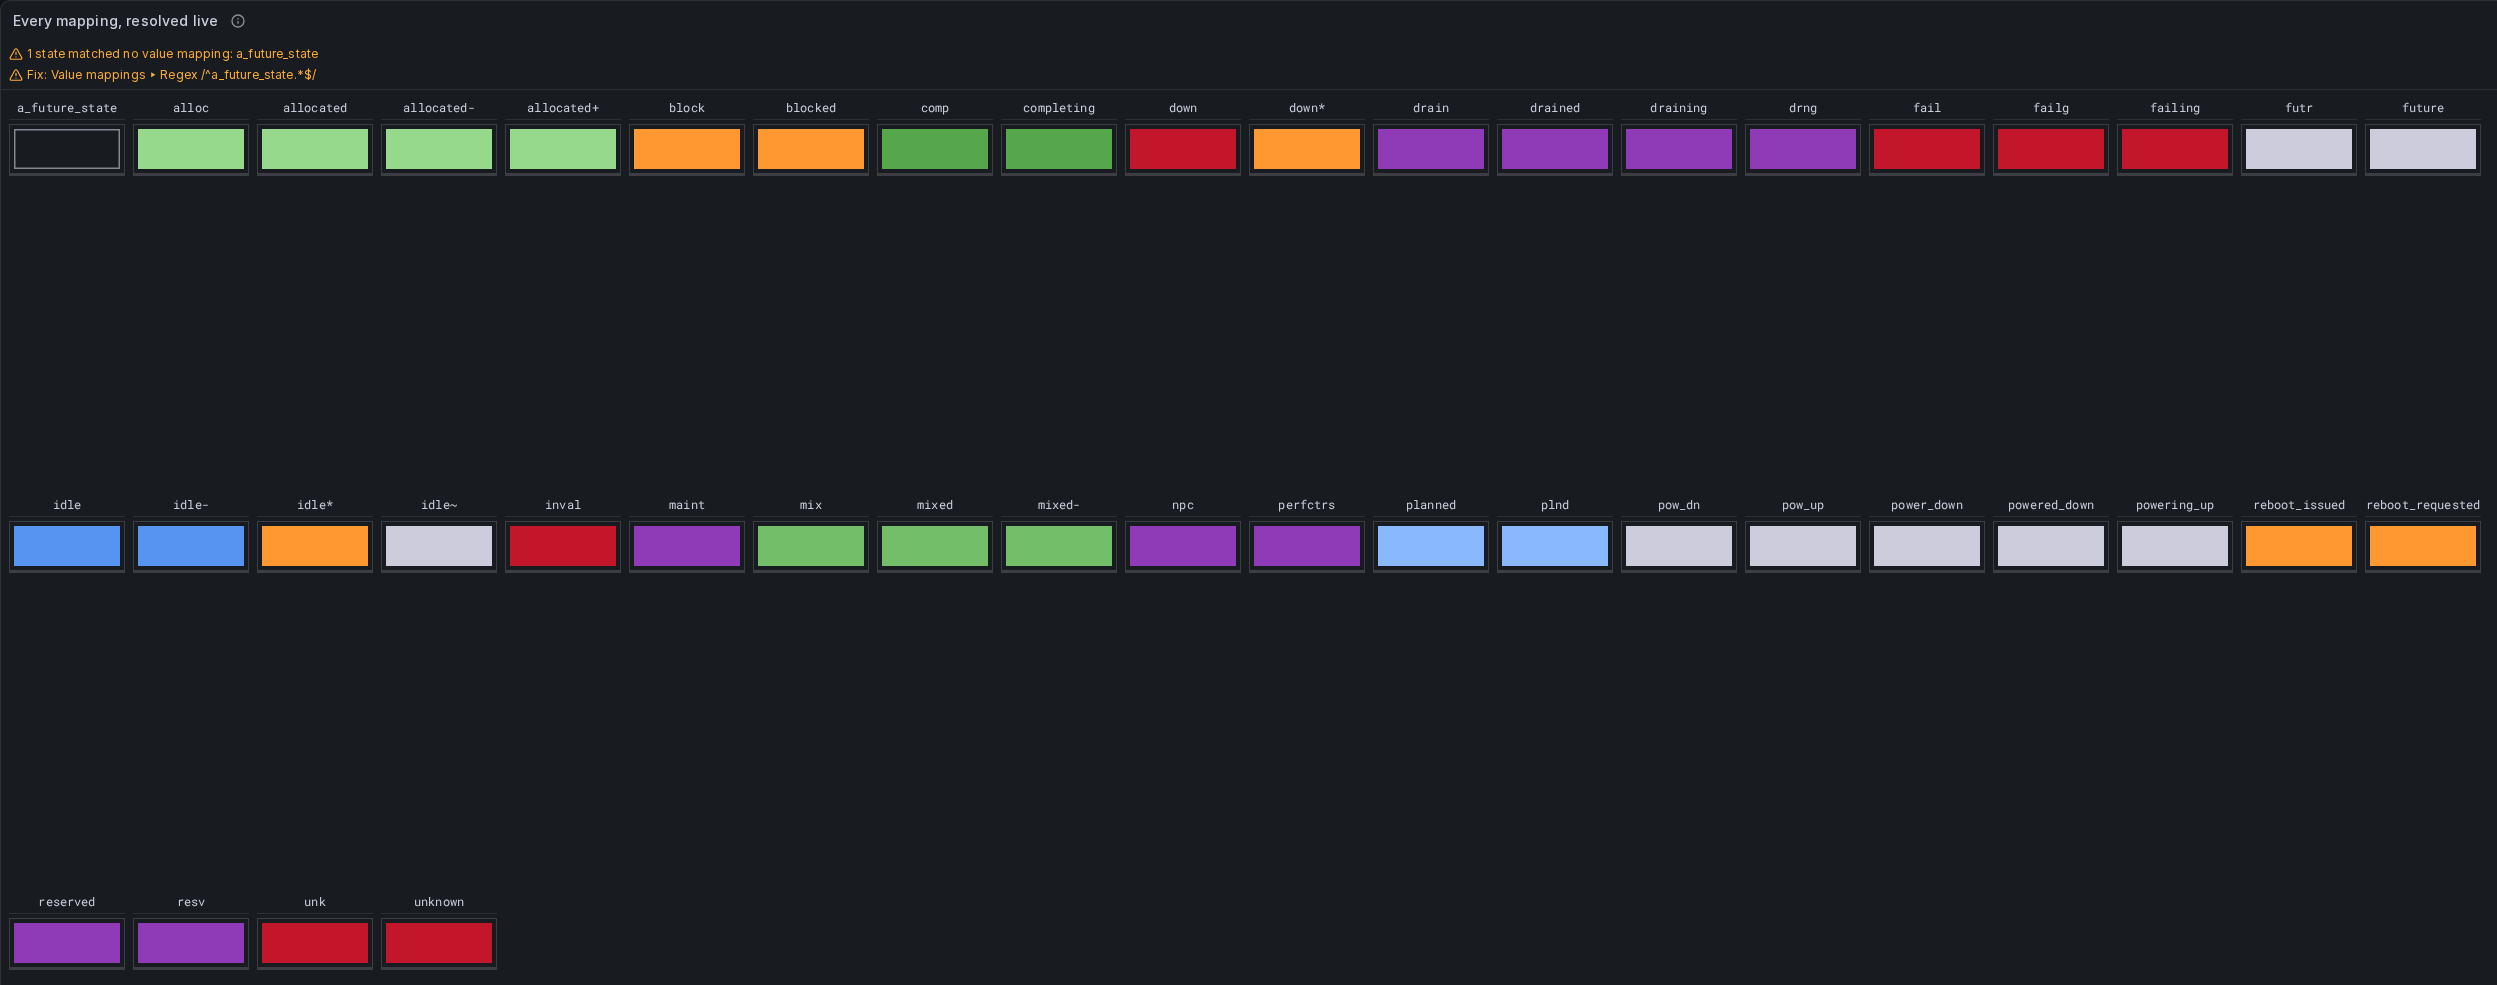
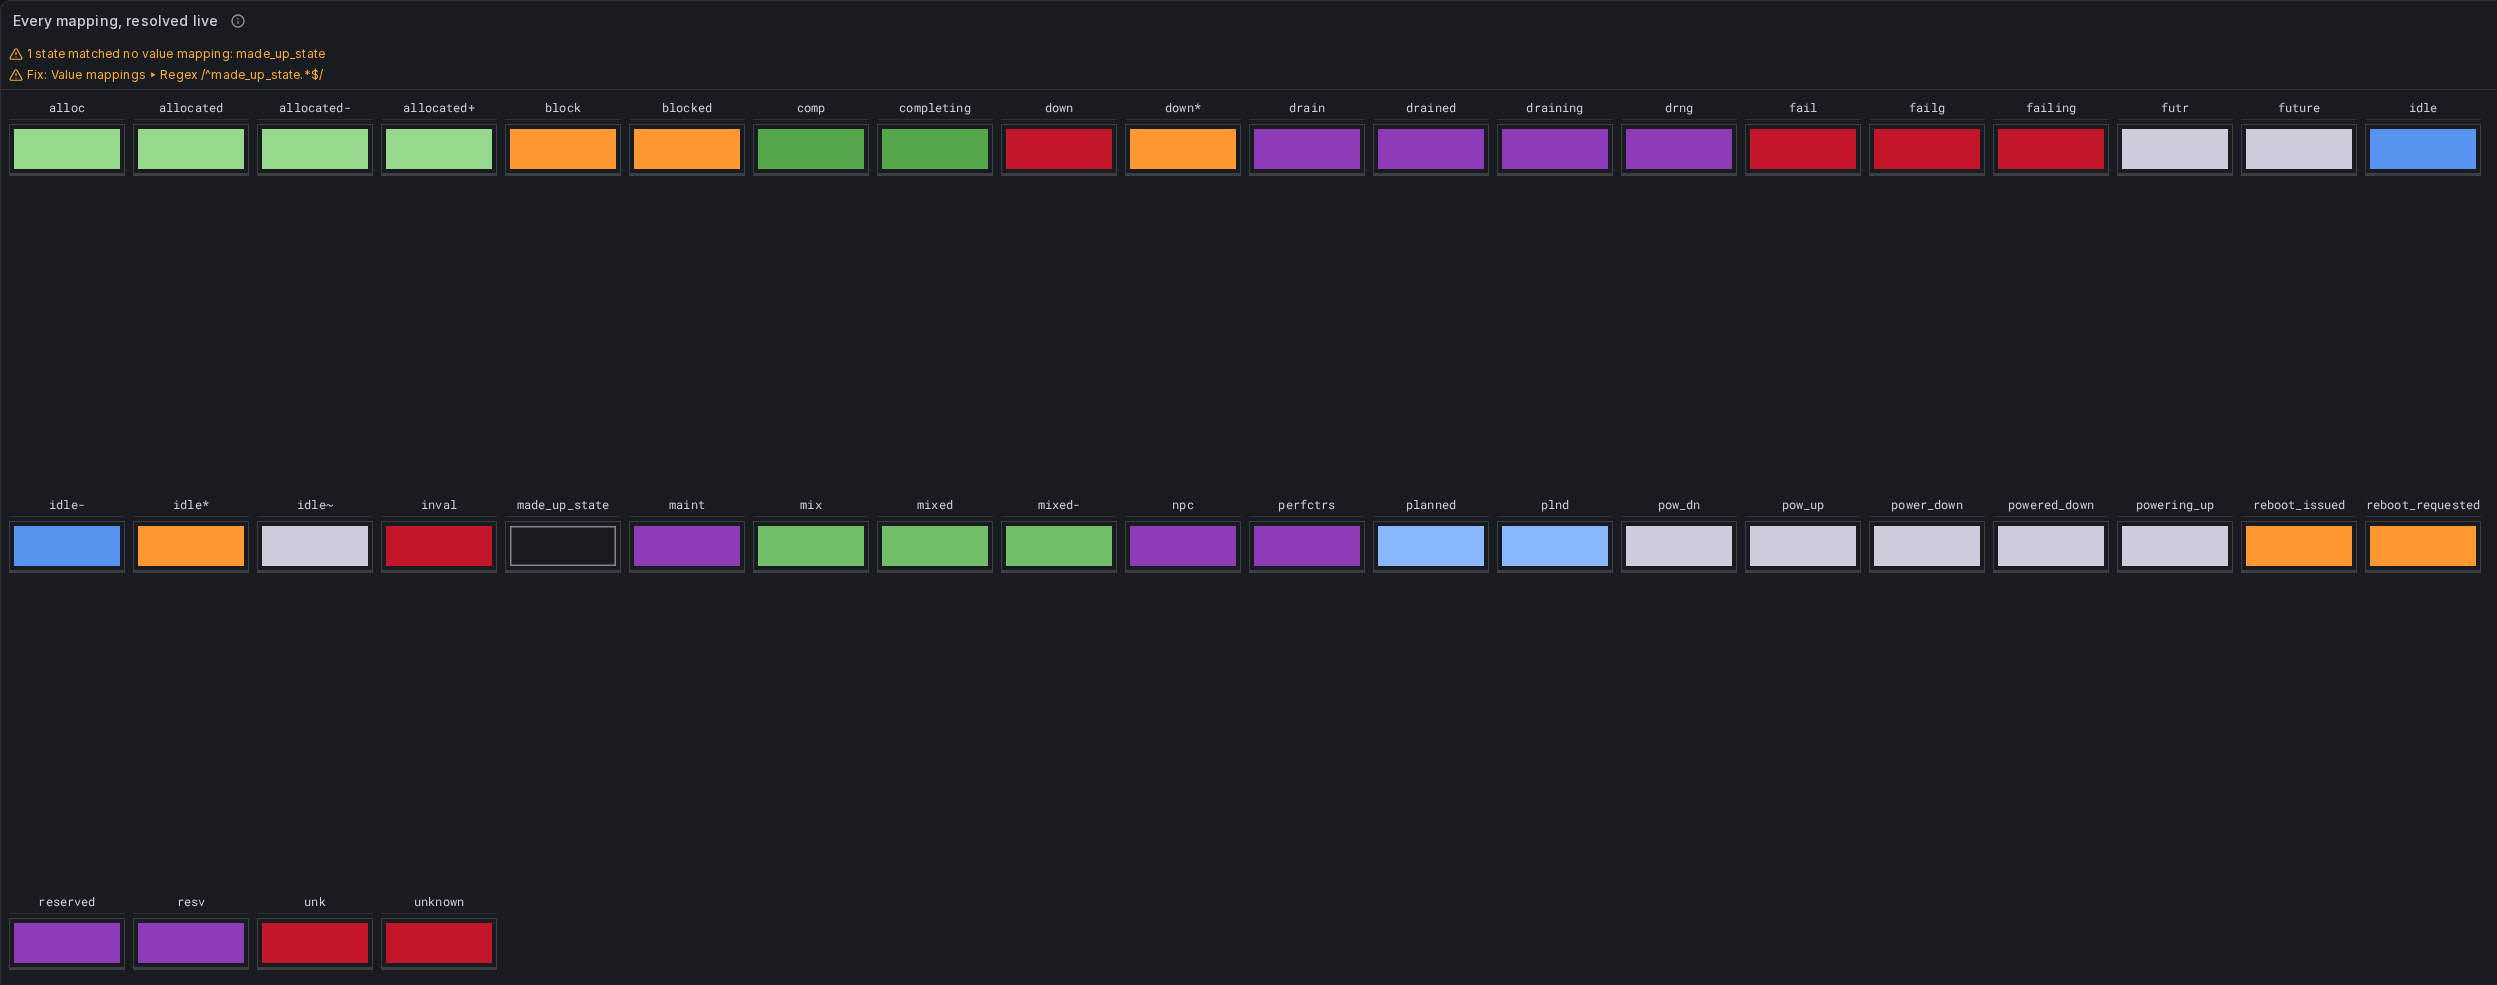
fix(dev): the invented state was named like a real one
a_future_state sat two columns from `future` and `futr`, and they are not
the same kind of thing at all. SchedMD's sinfo page: FUTURE "indicates a
node that is not yet fully configured but is expected to be available for
use in the future" - hardware declared in slurm.conf that does not exist
yet, pre-defined so it can be brought into service without restarting the
controller. My placeholder meant "a state a future Slurm might add". Two
different futures, one screen apart, and the maintainer had to ask which
was which.

made_up_state. Thirteen characters, still under reboot_requested, and it
cannot be read as anything but a placeholder.

While answering that question I found the gap it came from: `futr` is
matched by the same rule as `future` - one regex, /^fut.*$/ - and neither
the panel's colour table nor the README said so. Both list it now, with
what the state actually means, so the next reader does not have to ask.

diff --git a/plugins/nodegrid-panel/tests/nodegrid.spec.ts b/plugins/nodegrid-panel/tests/nodegrid.spec.ts
@@ -108,14 +108,14 @@ test.describe('the node grid renders against a real Grafana', () => {
     const strip = page.getByTestId('panel-warnings').first();
     await expect(strip).toBeVisible({ timeout: 20_000 });
     await expect(strip).toContainText('1 state matched no value mapping');
-    await expect(strip).toContainText('a_future_state');
+    await expect(strip).toContainText('made_up_state');
 
     // Naming the state says what is wrong. The panel also has to say what to
     // do about it, with a rule that is correct as printed: delimited, so
     // Grafana does not wrap it into an exact match, and spanning the whole
     // value, so the replacement does not glue itself onto the remainder.
     await expect(strip).toContainText('Value mappings');
-    await expect(strip).toContainText('/^a_future_state.*$/');
+    await expect(strip).toContainText('/^made_up_state.*$/');
 
     // And it is drawn as having nothing to say rather than coloured — the
     // whole point of naming it. With thresholds configured, the alternative is

diff --git a/plugins/nodegrid-panel/src/components/NodeCell.test.tsx b/plugins/nodegrid-panel/src/components/NodeCell.test.tsx
@@ -58,7 +58,7 @@ describe('NodeCell', () => {
   // the trap: a test for unmapped behaviour must not be written against a
   // value that can quietly become mapped. This stands in for whatever a future
   // Slurm introduces.
-  const UNKNOWN_STATE = 'a_future_state';
+  const UNKNOWN_STATE = 'made_up_state';
 
   it('renders a state the rules have never seen as unmapped: ring, no fill', () => {
     render(

diff --git a/plugins/nodegrid-panel/src/README.md b/plugins/nodegrid-panel/src/README.md
@@ -293,7 +293,11 @@ cell's tooltip and in its accessible label, in every colour mode.
 | <span style="display:inline-block;width:34px;height:14px;border-radius:3px;background:#8F3BB8;vertical-align:middle"></span> `#8F3BB8` | `dark-purple` | **a human claimed it** | `drained`, `draining`, `drng`, `maintenance`, `reserved`, `resv`, `npc`, `perfctrs` |
 | <span style="display:inline-block;width:34px;height:14px;border-radius:3px;background:#FF9830;vertical-align:middle"></span> `#FF9830` | `orange` | **not answering, or moving** | the `*` suffix, `blocked`, `reboot` |
 | <span style="display:inline-block;width:34px;height:14px;border-radius:3px;background:#C4162A;vertical-align:middle"></span> `#C4162A` | `dark-red` | **broken** | `down`, `fail`, `unknown`, `invalid` |
-| the theme's own ink | `text` | **absent from the floor** | the `~` suffix, `power_down`, `powering_up`, `future` |
+| the theme's own ink | `text` | **absent from the floor** | the `~` suffix, `power_down`, `powering_up`, `future`, `futr` |
+
+`future` and `futr` are one state under two spellings, both matched by a single rule: a node declared
+in `slurm.conf` that does not exist yet, pre-defined so it can be brought into service later without
+restarting the controller. Grey for the same reason `powered_down` is — there is nothing on the floor.
 
 Hex values are the dark theme's. Every colour is a Grafana theme name rather
 than a literal, so a light theme or a custom one resolves its own value and the
